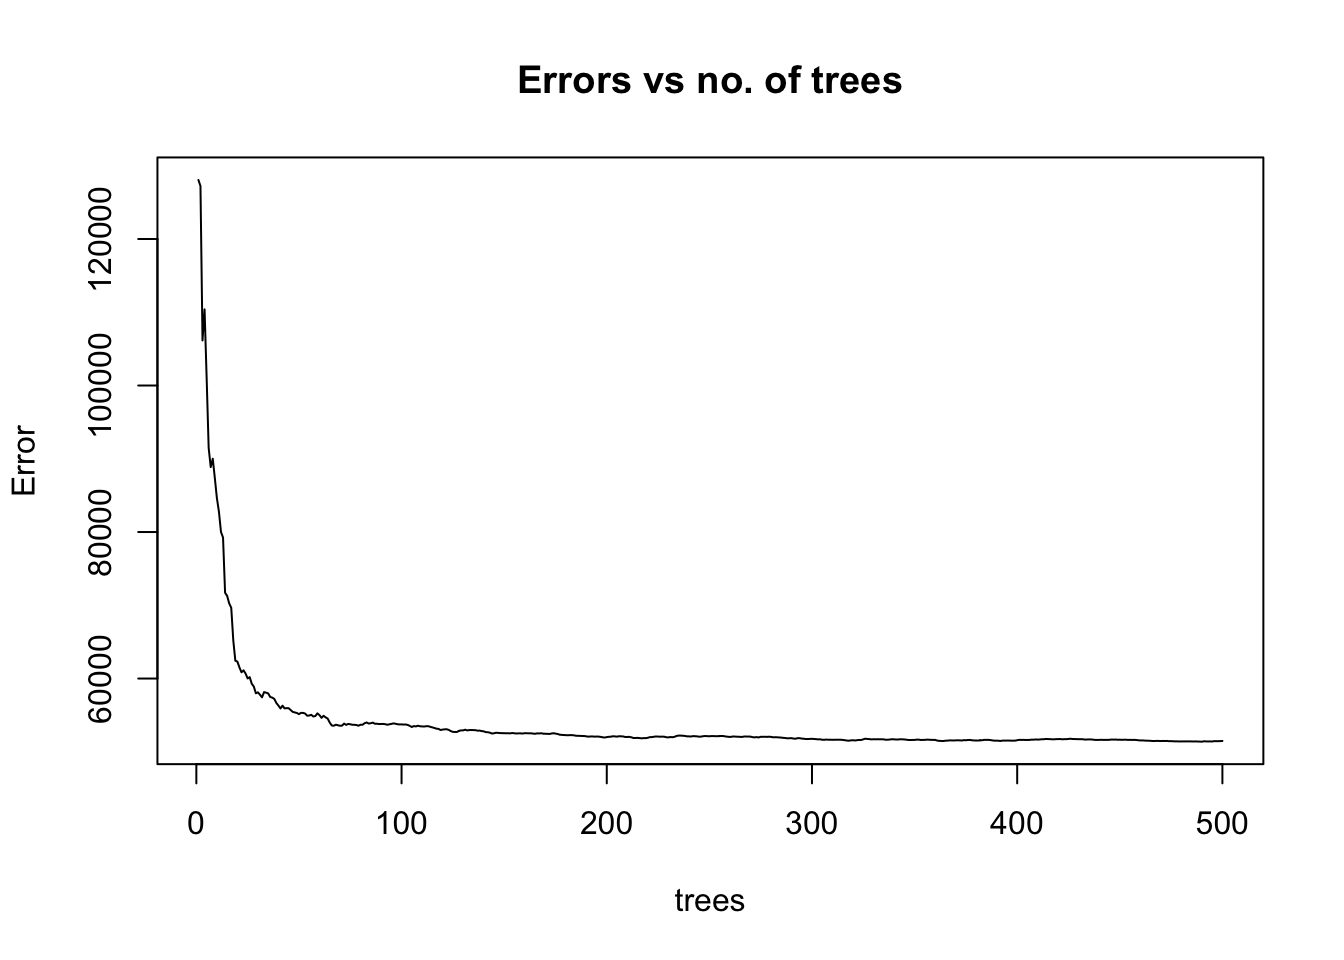
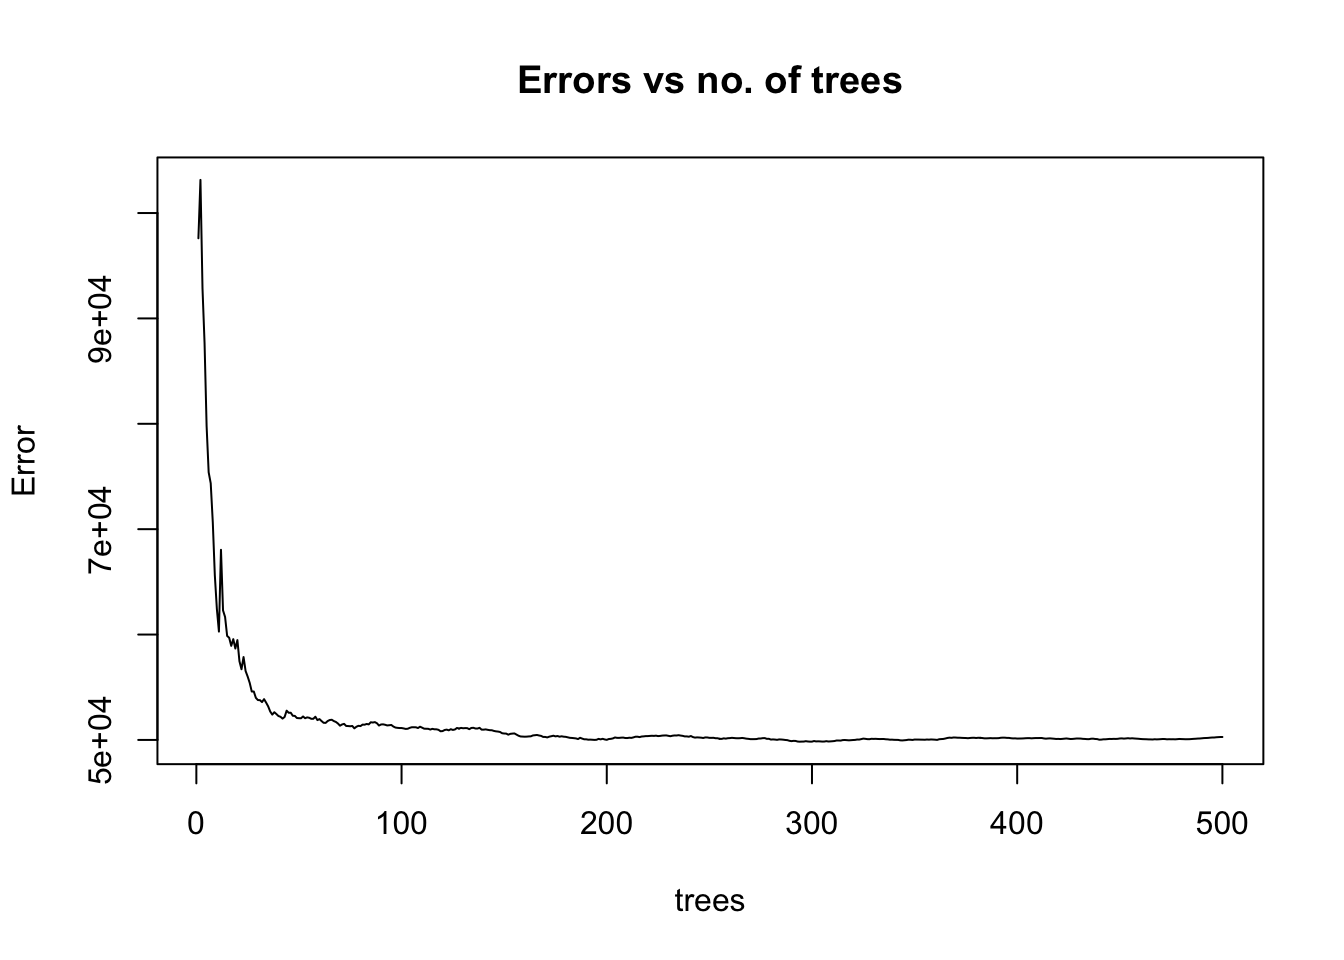
change-text-ml

diff --git a/_book/machine-learning.html b/_book/machine-learning.html
@@ -524,8 +524,8 @@ window.Quarto = {
 </div>
 </div>
 </div>
-<p>As we can see, <code>rpart()</code> produces a decision tree with 11 leaf nodes and the conditions to reach each leaf are associated with only 8 demographic variables. However, in the original training set, there were many more demographic variables that have not been included in the model. The reason for this is that, behind the scenes, <code>rpart()</code> is trying to find a balance between the complexity of the tree (i.e.&nbsp;its depth) and the generalisability of the tree to predict new unseen data. If it is too deep, the tree runs the risk of overfitting the training data and failing to predict the median monthly rent price for other MSOAs that are not included in the training set.</p>
-<p>To illustrate the point of selecting a tree with 11 leaves, we can manually control the level of complexity allowed when fitting of a decision tree model. The lower we set the value of the parameter <code>cp</code>, the more complex the resulting tree will be, so <code>cp</code> can be regarded as penalty for the level of complexity or a cost complexity parameter. Below, we fit a decision tree with no penalty for generating a complex tree model, i.e.&nbsp;<code>cp=0</code>, and then we use the function <code>plotcp()</code> to plot the prediction error (<a href="https://en.wikipedia.org/wiki/PRESS_statistic">PRESS statistic</a>) that would be achieved with decision trees of different levels of complexity.</p>
+<p>As we can see, <code>rpart()</code> produces a decision tree with 9 leaf nodes and the conditions to reach each leaf are associated with only 6 demographic variables. However, in the original training set, there were many more demographic variables that have not been included in the model. The reason for this is that, behind the scenes, <code>rpart()</code> is trying to find a balance between the complexity of the tree (i.e.&nbsp;its depth) and the generalisability of the tree to predict new unseen data. If it is too deep, the tree runs the risk of overfitting the training data and failing to predict the median monthly rent price for other MSOAs that are not included in the training set.</p>
+<p>To illustrate the point of selecting a tree with 9 leaves, we can manually control the level of complexity allowed when fitting of a decision tree model. The lower we set the value of the parameter <code>cp</code>, the more complex the resulting tree will be, so <code>cp</code> can be regarded as penalty for the level of complexity or a cost complexity parameter. Below, we fit a decision tree with no penalty for generating a complex tree model, i.e.&nbsp;<code>cp=0</code>, and then we use the function <code>plotcp()</code> to plot the prediction error (<a href="https://en.wikipedia.org/wiki/PRESS_statistic">PRESS statistic</a>) that would be achieved with decision trees of different levels of complexity.</p>
 <div class="cell">
 <div class="sourceCode cell-code" id="cb16"><pre class="sourceCode r code-with-copy"><code class="sourceCode r"><span id="cb16-1"><a href="#cb16-1" aria-hidden="true" tabindex="-1"></a><span class="co"># set seed for reproducibility</span></span>
 <span id="cb16-2"><a href="#cb16-2" aria-hidden="true" tabindex="-1"></a><span class="fu">set.seed</span>(<span class="dv">123</span>)</span>
@@ -534,7 +534,7 @@ window.Quarto = {
 <span id="cb16-5"><a href="#cb16-5" aria-hidden="true" tabindex="-1"></a><span class="co"># plot error vs tree complexity </span></span>
 <span id="cb16-6"><a href="#cb16-6" aria-hidden="true" tabindex="-1"></a><span class="fu">plotcp</span>(fit2)</span>
 <span id="cb16-7"><a href="#cb16-7" aria-hidden="true" tabindex="-1"></a><span class="co"># draw vertical line at 11 trees</span></span>
-<span id="cb16-8"><a href="#cb16-8" aria-hidden="true" tabindex="-1"></a><span class="fu">abline</span>(<span class="at">v=</span><span class="dv">11</span>, <span class="at">lty=</span><span class="st">'dashed'</span>)</span></code><button title="Copy to Clipboard" class="code-copy-button"><i class="bi"></i></button></pre></div>
+<span id="cb16-8"><a href="#cb16-8" aria-hidden="true" tabindex="-1"></a><span class="fu">abline</span>(<span class="at">v=</span><span class="dv">9</span>, <span class="at">lty=</span><span class="st">'dashed'</span>)</span></code><button title="Copy to Clipboard" class="code-copy-button"><i class="bi"></i></button></pre></div>
 <div class="cell-output-display">
 <div>
 <figure class="figure">
@@ -543,7 +543,7 @@ window.Quarto = {
 </div>
 </div>
 </div>
-<p>As we can see from the plot above, with more than 11 leaves, little reduction in the prediction error is achieved as the model becomes more and more complex. In other words, we start seeing diminishing returns in error reduction as the tree grows deeper. Hence <code>rpart()</code> is doing some behind-the-scenes tuning by pruning the tree so it only has 11 leaf nodes.</p>
+<p>As we can see from the plot above, with more than 9 leaves, little reduction in the prediction error is achieved as the model becomes more and more complex. In other words, we start seeing diminishing returns in error reduction as the tree grows deeper. Hence <code>rpart()</code> is doing some behind-the-scenes tuning by pruning the tree so it only has 9 leaf nodes.</p>
 <p>There are other model parameters that can be tuned in order to improve the model performance via the control argument of the <code>rpart()</code> function, just like we did above for <code>cp</code>. While we do not experiment with these additional parameters in the workbook, we provide brief descriptions below so you can explore them on your own time:</p>
 <ul>
 <li><p><code>minsplit</code> controls the minimum number of data points required in each leaf node. The default is 20. Setting this lower will result in more leaves with very few data points belonging to the corresponding branch.</p></li>
@@ -562,14 +562,14 @@ window.Quarto = {
 <div class="cell">
 <div class="sourceCode cell-code" id="cb18"><pre class="sourceCode r code-with-copy"><code class="sourceCode r"><span id="cb18-1"><a href="#cb18-1" aria-hidden="true" tabindex="-1"></a><span class="fu">rmse</span>(predict_unseen, df_test<span class="sc">$</span>median_rent_per_month)</span></code><button title="Copy to Clipboard" class="code-copy-button"><i class="bi"></i></button></pre></div>
 <div class="cell-output cell-output-stdout">
-<pre><code>[1] 275.8318</code></pre>
+<pre><code>[1] 286.1798</code></pre>
 </div>
 </div>
 <p>This value does not have much meaning in isolation. A good or bad RMSE is always relative to the specific data set. For this reason, we need to establish a baseline RMSE that we can compare it with. Here we establish this baseline as the RMSE that would be obtained from a naive tree that merely predicts the median monthly rent across all the data entries in the training set. If the fitted model achieves an RSME lower than the naive model, we say that the fitted model “has skill”. The following line of code confirms that our fitted model is better than the naive model.</p>
 <div class="cell">
 <div class="sourceCode cell-code" id="cb20"><pre class="sourceCode r code-with-copy"><code class="sourceCode r"><span id="cb20-1"><a href="#cb20-1" aria-hidden="true" tabindex="-1"></a><span class="fu">rmse</span>(predict_unseen, <span class="fu">mean</span>(df_train<span class="sc">$</span>median_rent_per_month))</span></code><button title="Copy to Clipboard" class="code-copy-button"><i class="bi"></i></button></pre></div>
 <div class="cell-output cell-output-stdout">
-<pre><code>[1] 404.5433</code></pre>
+<pre><code>[1] 414.4566</code></pre>
 </div>
 </div>
 </section>
@@ -601,11 +601,11 @@ window.Quarto = {
 
 No pre-processing
 Resampling: Cross-Validated (10 fold) 
-Summary of sample sizes: 1578, 1578, 1579, 1580, 1579, 1578, ... 
+Summary of sample sizes: 1579, 1578, 1579, 1580, 1579, 1580, ... 
 Resampling results:
 
   RMSE      Rsquared   MAE     
-  259.5721  0.7168945  178.5418</code></pre>
+  259.6851  0.7194196  177.2139</code></pre>
 </div>
 </div>
 <p>We see that the cross-validated value of RMSE with bagging is lower than that associated with the single decision tree that we trained with <code>rcart</code>. This indicates that the predictive performance is estimated to be better. We can compare the cross-validated value of the RMSE with the RMSE from the test set. These two quantities should be close:</p>
@@ -613,7 +613,7 @@ Resampling results:
 <div class="sourceCode cell-code" id="cb24"><pre class="sourceCode r code-with-copy"><code class="sourceCode r"><span id="cb24-1"><a href="#cb24-1" aria-hidden="true" tabindex="-1"></a>predict_bagged_unseen <span class="ot">&lt;-</span> <span class="fu">predict</span>(bagged, df_test)</span>
 <span id="cb24-2"><a href="#cb24-2" aria-hidden="true" tabindex="-1"></a><span class="fu">rmse</span>(predict_bagged_unseen, df_test<span class="sc">$</span>median_rent_per_month)</span></code><button title="Copy to Clipboard" class="code-copy-button"><i class="bi"></i></button></pre></div>
 <div class="cell-output cell-output-stdout">
-<pre><code>[1] 239.0406</code></pre>
+<pre><code>[1] 230.1622</code></pre>
 </div>
 </div>
 <p>The library <code>caret</code> has an additional function <code>varImp()</code> that helps us understand the variable importance across the bagged trees, i.e.&nbsp;the variables that are most relevant to determine the predictions of MSOA median rent per month. You are encouraged to check the <code>caret</code> documentation to learn more about how the variable importance is determined. We can plot a rank of variable importance by running the code below.</p>
@@ -656,11 +656,11 @@ Call:
                      Number of trees: 500
 No. of variables tried at each split: 16
 
-          Mean of squared residuals: 51481
-                    % Var explained: 78.04</code></pre>
+          Mean of squared residuals: 50278.4
+                    % Var explained: 78.72</code></pre>
 </div>
 </div>
-<p>As we can see from above, the mean of squared residuals, which is the same as the MSE, is 9903736 for 500 trees and therefore, RMSE = 3147. This metric is computed by averaging residuals from the OOB samples. To illustrate how the MSE varies as more bootstrap samples are added to the model, we can plot the fitted model:</p>
+<p>As we can see from above, the mean of squared residuals, which is the same as the MSE, is around 48,561 (you might get a slightly different number due to randomness in the algorithm) for 500 trees and therefore, RMSE = 220. This metric is computed by averaging residuals from the OOB samples. To illustrate how the MSE varies as more bootstrap samples are added to the model, we can plot the fitted model:</p>
 <div class="cell">
 <div class="sourceCode cell-code" id="cb29"><pre class="sourceCode r code-with-copy"><code class="sourceCode r"><span id="cb29-1"><a href="#cb29-1" aria-hidden="true" tabindex="-1"></a><span class="fu">plot</span>(fit_rf, <span class="at">main =</span> <span class="st">"Errors vs no. of trees"</span>)</span></code><button title="Copy to Clipboard" class="code-copy-button"><i class="bi"></i></button></pre></div>
 <div class="cell-output-display">
@@ -671,18 +671,18 @@ No. of variables tried at each split: 16
 </div>
 </div>
 </div>
-<p>We see that the MSE becomes stable with approximately 100 trees, but it continues to decrease slowly. To find the number of trees that lead to the minimum error, we can run the following line:</p>
+<p>We see that the MSE becomes stable with approximately 100-200 trees, but it continues to decrease slowly. To find the number of trees that lead to the minimum error, we can run the following line:</p>
 <div class="cell">
 <div class="sourceCode cell-code" id="cb30"><pre class="sourceCode r code-with-copy"><code class="sourceCode r"><span id="cb30-1"><a href="#cb30-1" aria-hidden="true" tabindex="-1"></a><span class="fu">which.min</span>(fit_rf<span class="sc">$</span>mse)</span></code><button title="Copy to Clipboard" class="code-copy-button"><i class="bi"></i></button></pre></div>
 <div class="cell-output cell-output-stdout">
-<pre><code>[1] 490</code></pre>
+<pre><code>[1] 294</code></pre>
 </div>
 </div>
 <p>By computing the RMSE, we can compare the performance of this model with performance of the models in the previous sections:</p>
 <div class="cell">
 <div class="sourceCode cell-code" id="cb32"><pre class="sourceCode r code-with-copy"><code class="sourceCode r"><span id="cb32-1"><a href="#cb32-1" aria-hidden="true" tabindex="-1"></a><span class="fu">sqrt</span>(fit_rf<span class="sc">$</span>mse[<span class="fu">which.min</span>(fit_rf<span class="sc">$</span>mse)])</span></code><button title="Copy to Clipboard" class="code-copy-button"><i class="bi"></i></button></pre></div>
 <div class="cell-output cell-output-stdout">
-<pre><code>[1] 226.6719</code></pre>
+<pre><code>[1] 223.2337</code></pre>
 </div>
 </div>
 <p>This is a lower value than what we obtained with just a single tree and even after applying bagging! Remember, this RMSE is based on the OOB samples, but we could also obtain it from the test set. <code>randomForest()</code> allows us to easily compare the RMSE obtained from OOB data and from the test set.</p>
@@ -725,7 +725,7 @@ No. of variables tried at each split: 16
 <li><p><code>max.depth</code> is the maximum depth of the trees.</p></li>
 </ul>
 <p>In order to find the combination of hyperparameters that leads to the best performing model, we need to try them all and select the one with the lowest MSE or RMSE. This is usually a computationally heavy task, so as the models and the training data become larger, the process of tuning can become very slow. The library <code>ranger</code> provides a C++ implementation of the random forest algorithm and allows to perform hyperparameter search faster than <code>randomForest</code>.</p>
-<p>As mentioned, to find the best performing model, we need to find the right combination of hyperparameters. So the first step in the tuning process is to generate a “grid” of possible combinations of hyperparameters. If we only wanted to tune <code>ntree</code> (as we did in the previous subsection when we found that the number of trees leading to the lowest value of MSE is 495), the grid would be simply a list of possible <code>ntree</code> values. To illustrate more complex tuning, here we generate a grid that considers <code>mtry</code>, <code>sample.fraction</code> and <code>min.node.size</code>. The grid is created as follows:</p>
+<p>As mentioned, to find the best performing model, we need to find the right combination of hyperparameters. So the first step in the tuning process is to generate a “grid” of possible combinations of hyperparameters. If we only wanted to tune <code>ntree</code> (as we did in the previous subsection when we found that the number of trees leading to the lowest value of MSE is 499), the grid would be simply a list of possible <code>ntree</code> values. To illustrate more complex tuning, here we generate a grid that considers <code>mtry</code>, <code>sample.fraction</code> and <code>min.node.size</code>. The grid is created as follows:</p>
 <div class="cell">
 <div class="sourceCode cell-code" id="cb35"><pre class="sourceCode r code-with-copy"><code class="sourceCode r"><span id="cb35-1"><a href="#cb35-1" aria-hidden="true" tabindex="-1"></a><span class="co"># Considering that there are 48 explanatory variables in the original dataset, we will try values of mtry between 10 and 30. The sample size will go from 60% and 80% of the total size of the training set. We will try minimal node size splits between 5 and 20.</span></span>
 <span id="cb35-2"><a href="#cb35-2" aria-hidden="true" tabindex="-1"></a>hyper_grid <span class="ot">&lt;-</span> <span class="fu">expand.grid</span>(<span class="at">mtry =</span> <span class="fu">seq</span>(<span class="dv">10</span>, <span class="dv">20</span>, <span class="at">by=</span><span class="dv">2</span>), </span>
@@ -760,10 +760,10 @@ No. of variables tried at each split: 16
 <div class="sourceCode cell-code" id="cb38"><pre class="sourceCode r code-with-copy"><code class="sourceCode r"><span id="cb38-1"><a href="#cb38-1" aria-hidden="true" tabindex="-1"></a>hyper_grid[<span class="fu">which.min</span>(hyper_grid<span class="sc">$</span>OOB_RMSE),]</span></code><button title="Copy to Clipboard" class="code-copy-button"><i class="bi"></i></button></pre></div>
 <div class="cell-output cell-output-stdout">
 <pre><code>   mtry sample.fraction min.node.size OOB_RMSE
-58   16             0.8             5 227.0849</code></pre>
+52   16            0.75             5 224.2104</code></pre>
 </div>
 </div>
-<p>The OOB RMSE is even lower than the error we obtained with the default model for random forest with no tuning, yay!</p>
+<p>The OOB RMSE is even lower than the error we obtained with the default model for random forest with no tuning.</p>
 </section>
 </section>
 <section id="questions" class="level2" data-number="10.6">
@@ -804,7 +804,7 @@ Projected CRS: OSGB36 / British National Grid</code></pre>
 <span id="cb44-4"><a href="#cb44-4" aria-hidden="true" tabindex="-1"></a>})</span></code><button title="Copy to Clipboard" class="code-copy-button"><i class="bi"></i></button></pre></div>
 <div class="cell-output cell-output-stdout">
 <pre><code>   user  system elapsed 
- 96.365  11.500 109.158 </code></pre>
+ 96.071  11.207 109.348 </code></pre>
 </div>
 </div>
 <div class="cell">
